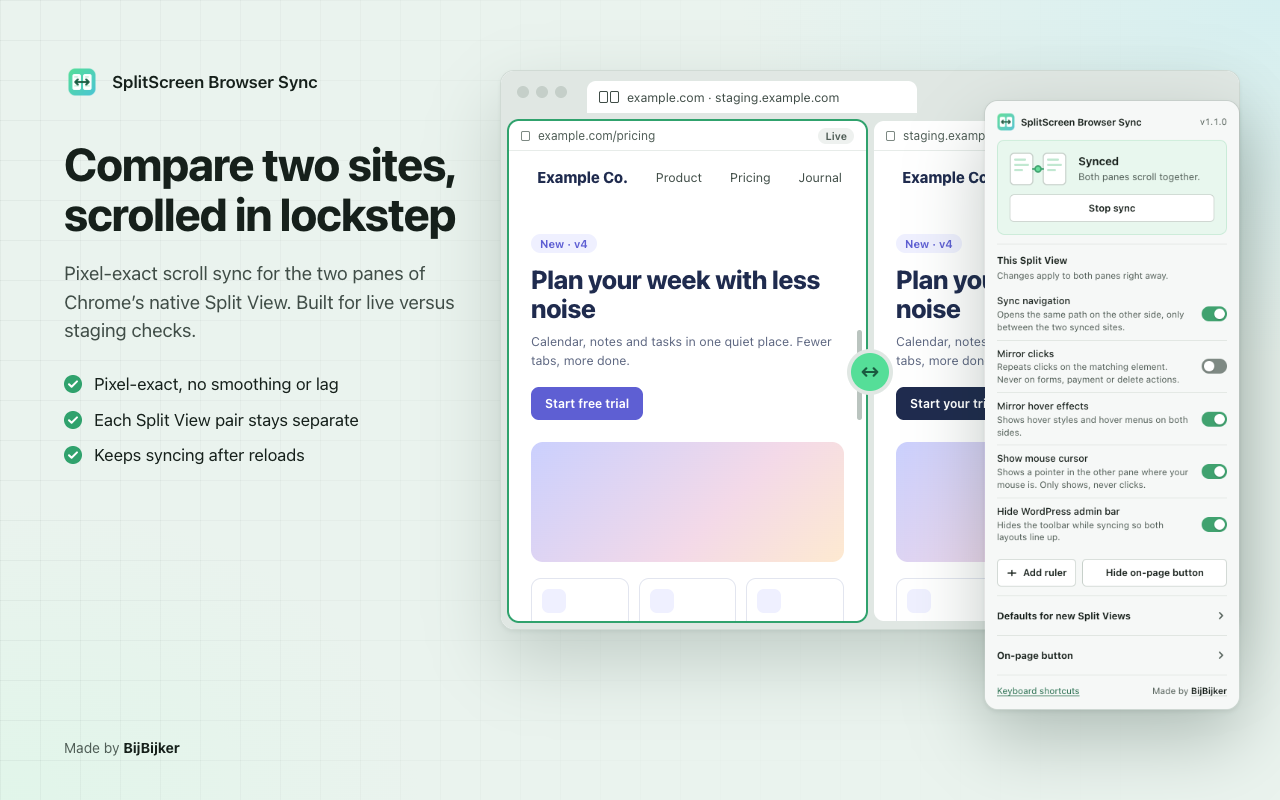
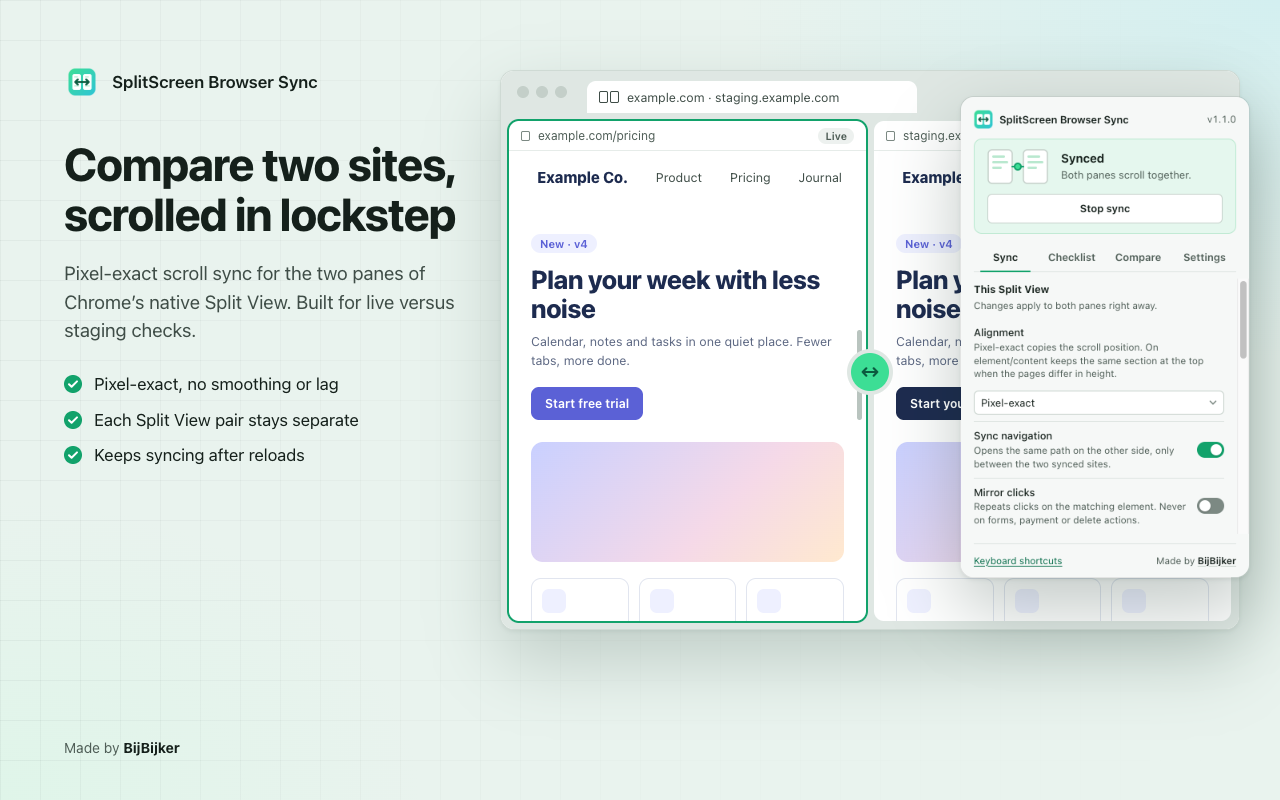
Docs and store assets for the new features
- README: new features, overlay/capture findings, programmatic Split View
  (tabs.createSplit, Chrome 155+), pane-size limits, popup tabs, defaults,
  shortcut, test checklist.
- store/PRIVACY.md (EN+NL): typing, element/scroll-area/zoom data, overlay
  images, CSS values, checklists and recent pairs, optional <all_urls>.
- store/LISTING.md: description bullets (EN+NL), single purpose, permission
  justification for the optional <all_urls> and the APIs that need none,
  data-usage note for Sync typing, screenshot upload order (max 5).
- Store images (1280x800, 24-bit PNG, EN+NL): screenshot 1 refreshed with
  the new popup; new 5 checklist, 6 overlay (difference mode), 7 CSS
  inspector, built from real captures.

diff --git a/store/LISTING.md b/store/LISTING.md
@@ -22,7 +22,14 @@ Everything needed to fill in the Chrome Web Store Developer Dashboard. Primary l
 SplitScreen Browser Sync keeps the two panes of Chrome's native Split View scrolled to exactly the same position. Put your live site next to its staging copy, a design next to its build, or two versions of a page side by side, and scroll once.
 
 What it does
-• Pixel-exact scroll sync in both directions, without smoothing or lag
+• Pixel-exact scroll sync in both directions, without smoothing or lag, or align on matching content when one page is taller
+• Page checklist for live vs staging: paste your paths, step through them with Previous/Next on both sites, mark Good/Wrong/N/A with notes, export to CSV
+• Overlay: lay one side over the other with an opacity slider, a difference blend that makes changed pixels light up, or a swipe divider
+• Inspect differences: point at an element and see which CSS (font, size, colour, spacing, layout) differs from the same element on the other side
+• Recent pairs: reopen two sites side by side as a Split View with one click; pin favourites
+• Hold Alt (Option) to scroll one side on its own; letting go sets the scroll offset
+• Also syncs scroll areas (modals, side panels) and the zoom level
+• Shows the width and height of each pane, with width presets (375 to 1440 px)
 • Every Split View pair stays separate, even with ten pairs open
 • Keeps syncing after a normal or hard reload of either side
 • Sync navigation (on by default): follow a link on one side and the other side opens the same path on its own domain (live ↔ staging)
@@ -30,6 +37,7 @@ What it does
 • Mirror hover effects (on by default): see CSS hover styles and hover menus on both sides
 • Show mouse cursor (on by default): a pointer in the other pane follows your mouse, with a ripple when you click. Display only, it never clicks anything
 • Mirror clicks (off by default): open menus, accordions and modals on both sides at once. Submit buttons, forms that post data and delete/pay/confirm/log-out actions are never clicked on the other side
+• Sync typing (off by default): fill in a form once for both sides. Never password, code, payment or file fields, and never submits
 • Scroll offset in pixels when one layout is taller than the other
 • Synced ruler lines to check alignment
 • Optionally hides the WordPress admin bar so both layouts line up
@@ -42,7 +50,7 @@ How to use it
 3. Open the extension and press Start sync, or use the floating button on the page.
 
 Privacy
-No account, no tracking, no analytics, no remote code, and nothing is sent to the developer. To sync, the extension passes the scroll position, the path of the page you navigate to, your mouse pointer position and (if enabled) the element you hover or click from one pane to the other, only between the two sites you started sync for. Password, PIN and payment fields are never read or mirrored.
+No account, no tracking, no analytics, no remote code, and nothing is sent to the developer. To sync, the extension passes the scroll position, the path of the page you navigate to, your mouse pointer position, the zoom level and (if enabled) the element you hover or click, what you type, an image of the other pane for the overlay and CSS values for the inspector from one pane to the other, only between the two sites you started sync for. Checklists and recent pairs stay on your device. Password, PIN and payment fields are never read or mirrored. The overlay asks once for permission to capture tabs; everything else works without it.
 
 Made by BijBijker – https://bijbijker.nl
 
@@ -51,7 +59,14 @@ Made by BijBijker – https://bijbijker.nl
 SplitScreen Browser Sync houdt de twee helften van de Split View in Chrome op precies dezelfde scrollpositie. Zet je live site naast de staging-versie, een ontwerp naast de bouw, of twee versies van een pagina naast elkaar, en scroll maar één keer.
 
 Wat het doet
-• Pixel-exacte scroll-sync in beide richtingen, zonder vertraging
+• Pixel-exacte scroll-sync in beide richtingen, zonder vertraging, of uitlijnen op overeenkomende inhoud als één pagina hoger is
+• Checklist voor live en staging: plak je paden, loop ze met Vorige/Volgende op beide sites langs, markeer Goed/Fout/N.v.t. met notities, exporteer naar CSV
+• Overlay: leg de ene kant over de andere met een schuifregelaar voor de dekking, een verschil-weergave waarin gewijzigde pixels oplichten, of een schuifbalk
+• Verschillen inspecteren: wijs een element aan en zie welke CSS (lettertype, grootte, kleur, ruimte, opmaak) afwijkt van hetzelfde element aan de andere kant
+• Recente paren: open twee sites met één klik weer naast elkaar als Split View; zet favorieten vast
+• Houd Alt (Option) ingedrukt om één kant los te scrollen; bij loslaten wordt dat de scroll-offset
+• Synchroniseert ook scrollgebieden (modals, zijpanelen) en het zoomniveau
+• Toont de breedte en hoogte van elke helft, met breedte-voorinstellingen (375 tot 1440 px)
 • Elk Split View-paar blijft apart, ook met tien paren open
 • Blijft syncen na normaal of hard herladen van een kant
 • Navigatie synchroniseren (standaard aan): volg een link aan de ene kant en de andere kant opent hetzelfde pad op het eigen domein (live ↔ staging)
@@ -59,6 +74,7 @@ Wat het doet
 • Hover-effecten spiegelen (standaard aan): CSS-hoverstijlen en hover-menu's aan beide kanten zien
 • Muiscursor tonen (standaard aan): een aanwijzer in de andere helft volgt je muis, met een rimpeling als je klikt. Alleen tonen, er wordt nooit iets mee aangeklikt
 • Klikken spiegelen (standaard uit): menu's, accordeons en modals aan beide kanten tegelijk openen. Verzendknoppen, formulieren die gegevens versturen en acties als verwijderen, betalen, bevestigen of uitloggen worden aan de andere kant nooit aangeklikt
+• Typen synchroniseren (standaard uit): vul een formulier één keer in voor beide kanten. Nooit wachtwoord-, code-, betaal- of bestandsvelden, en verstuurt nooit iets
 • Scroll-offset in pixels als de ene lay-out hoger is dan de andere
 • Gesynchroniseerde linialen om uitlijning te controleren
 • Verbergt desgewenst de WordPress-adminbalk zodat beide lay-outs gelijk lopen
@@ -71,15 +87,15 @@ Zo werkt het
 3. Open de extensie en klik op Sync starten, of gebruik de zwevende knop op de pagina.
 
 Privacy
-Geen account, geen tracking, geen analytics, geen externe code, en er gaat niets naar de ontwikkelaar. Om te syncen geeft de extensie de scrollpositie, het pad van de pagina waar je naartoe navigeert, de positie van je muisaanwijzer en (als dat aan staat) het element waar je overheen beweegt of op klikt door van de ene helft naar de andere, alleen tussen de twee sites waarvoor je de sync startte. Wachtwoord-, pincode- en betaalvelden worden nooit gelezen of gespiegeld.
+Geen account, geen tracking, geen analytics, geen externe code, en er gaat niets naar de ontwikkelaar. Om te syncen geeft de extensie de scrollpositie, het pad van de pagina waar je naartoe navigeert, de positie van je muisaanwijzer, het zoomniveau en (als dat aan staat) het element waar je overheen beweegt of op klikt, wat je typt, een afbeelding van de andere helft voor de overlay en CSS-waarden voor de inspectie door van de ene helft naar de andere, alleen tussen de twee sites waarvoor je de sync startte. Checklists en recente paren blijven op je apparaat. Wachtwoord-, pincode- en betaalvelden worden nooit gelezen of gespiegeld. De overlay vraagt één keer toestemming om tabbladen vast te leggen; al het andere werkt zonder.
 
 Gemaakt door BijBijker – https://bijbijker.nl
 
 ## Single purpose (dashboard field)
 
-EN: Keep the two tabs of a Chrome Split View in sync (scroll position, navigation, hover and mouse cursor, and optionally clicks, only between the two sites the user started sync for) so two versions of a website can be compared side by side.
+EN: Compare two versions of a website side by side in a Chrome Split View: keep both tabs in sync (scroll position, navigation, zoom, hover and mouse cursor, and optionally clicks and typing, only between the two sites the user started sync for) and help spot the differences (page checklist, overlay, CSS difference inspector).
 
-NL: De twee tabbladen van een Chrome Split View gelijk houden (scrollpositie, navigatie, hover en muiscursor, en optioneel klikken, alleen tussen de twee sites waarvoor de gebruiker de sync startte) zodat twee versies van een website naast elkaar vergeleken kunnen worden.
+NL: Twee versies van een website naast elkaar vergelijken in een Chrome Split View: beide tabbladen gelijk houden (scrollpositie, navigatie, zoom, hover en muiscursor, en optioneel klikken en typen, alleen tussen de twee sites waarvoor de gebruiker de sync startte) en helpen verschillen te vinden (checklist, overlay, CSS-verschillen).
 
 ## Permission justifications (dashboard fields)
 
@@ -88,7 +104,9 @@ NL: De twee tabbladen van een Chrome Split View gelijk houden (scrollpositie, na
 | Host permissions `http://*/*`, `https://*/*` | The user can open any website in either pane of a Split View. The content script must run on both pages to read and apply the scroll position and, when enabled, mirror clicks, hover and navigation. It does nothing on tabs that are not part of a Split View pair. `activeTab` is not enough: it only grants access to one tab after a click, not to the second pane, and it is lost on reload or navigation, which would break sync. |
 | `scripting` | Injects the bundled `content.js`/`content.css` into Split View tabs that were already open before the extension was installed, updated or restarted, so the user does not have to reload them. Only files packaged with the extension are injected. |
 | `storage` | Saves the user's settings (`chrome.storage.local`) and the per-pair sync state such as offset and ruler lines (`chrome.storage.session`, cleared when the browser closes). |
+| Optional host permission `<all_urls>` | Requested at runtime, only when the user turns on the Overlay ("Allow capturing the panes"). `chrome.tabs.captureVisibleTab` refuses to run with only `http://*/*`/`https://*/*` ("Either the '<all_urls>' or 'activeTab' permission is required"); `activeTab` is not enough because the overlay captures the *other* pane of the Split View, not the one the user clicked in, and keeps refreshing the image after scrolling. The image is only drawn over the other pane of the same pair and never stored or sent anywhere. Content scripts still only match http/https. Without this permission everything except the overlay works. |
 | Remote code | None. All JavaScript is in the package; no `eval`, no `new Function`, no remote scripts. |
+| APIs without extra permission | `chrome.tabs.setZoom`/`onZoomChange` (sync zoom), `chrome.tabs.createSplit` (reopen a remembered pair as a Split View, Chrome 155+), `chrome.windows.update` (width presets), `chrome.permissions` (the optional permission above). |
 
 Removed in 1.1.0 for least privilege: `tabs` (host permissions already give access to the URL of http/https tabs) and `web_accessible_resources` (the on-page button icon is now drawn inline, so no extension file is exposed to websites).
 
@@ -96,6 +114,7 @@ Removed in 1.1.0 for least privilege: `tabs` (host permissions already give acce
 
 - Does the extension collect user data? **No** — nothing is sent to the developer or any server. Tick none of the data categories. (Decision point before submitting: the path/query of navigations and hover/click targets are handed from one user-chosen site to the other as the core function. If a reviewer treats that as "transfer", tick *Web history* and *User activity* and keep the certifications below; the privacy policy already describes it.)
 - Certify: does not sell or transfer user data to third parties; does not use or transfer data for purposes unrelated to the single purpose; does not use or transfer data to determine creditworthiness or for lending.
+- With "Sync typing" (off by default) the text a user types is passed from one of their two chosen sites to the other. It never reaches the developer; if a reviewer considers this a transfer, tick *Personally identifiable information*/*User activity* accordingly. Checklists (paths and notes) and the recent-pairs list (site + path) are stored only in `chrome.storage.local`.
 - Note for reviewers: to perform the sync, the scroll position, the path/query/hash of a navigation, the mouse pointer position (for the virtual cursor, coordinates only) and (if enabled) a description of the hovered or clicked element are passed from one pane to the other. This only happens between the two origins the user pinned by pressing Start sync; if a pane opens another site, the pair pauses. Click mirroring is off by default and never activates submit buttons, POST forms or delete/pay/confirm/log-out actions. Nothing is sent to the developer and nothing is stored beyond the browser session.
 
 ## Assets
@@ -105,22 +124,25 @@ All images are 24-bit PNG without alpha, in `store/images/`.
 | Asset | English | Dutch |
 |---|---|---|
 | Store icon 128×128 (96 px artwork + padding) | `icons/icon128.png` | same |
-| Screenshot 1 – scroll sync | `en-screenshot-1-sync.png` | `nl-screenshot-1-sync.png` |
-| Screenshot 2 – clicks, hover and mouse cursor | `en-screenshot-2-clicks-hover.png` | `nl-screenshot-2-clicks-hover.png` |
-| Screenshot 3 – on-page controls | `en-screenshot-3-on-page-controls.png` | `nl-screenshot-3-on-page-controls.png` |
-| Screenshot 4 – setup | `en-screenshot-4-setup.png` | `nl-screenshot-4-setup.png` |
+| **Upload 1** – scroll sync (new popup with tabs) | `en-screenshot-1-sync.png` | `nl-screenshot-1-sync.png` |
+| **Upload 2** – page checklist | `en-screenshot-5-checklist.png` | `nl-screenshot-5-checklist.png` |
+| **Upload 3** – overlay, difference mode | `en-screenshot-6-overlay.png` | `nl-screenshot-6-overlay.png` |
+| **Upload 4** – CSS difference inspector | `en-screenshot-7-css-inspector.png` | `nl-screenshot-7-css-inspector.png` |
+| **Upload 5** – clicks, hover and mouse cursor | `en-screenshot-2-clicks-hover.png` | `nl-screenshot-2-clicks-hover.png` |
+| Not uploaded (store max 5) – on-page controls (older panel) | `en-screenshot-3-on-page-controls.png` | `nl-screenshot-3-on-page-controls.png` |
+| Not uploaded (store max 5) – setup | `en-screenshot-4-setup.png` | `nl-screenshot-4-setup.png` |
 | Small promo tile 440×280 | `en-promo-tile-440x280.png` | `nl-promo-tile-440x280.png` |
 | Marquee 1400×560 | `en-marquee-1400x560.png` | `nl-marquee-1400x560.png` |
 
-The popup and on-page panel in the screenshots are captures of the real extension UI. The websites shown are fictional (`example.com`).
+The popup and on-page panel in the screenshots are captures of the real extension UI; in screenshots 5–7 the panes are real captures of a fictional test site (overlay in difference mode, inspector panel), shown under `example.com` addresses. Upload them in the order above (the store allows 5 per language).
 
 ## Publishing checklist
 
 - [ ] Run `./package.sh` and upload `dist/splitscreen-browser-sync-1.1.0.zip`
 - [ ] Store listing: paste the EN detailed description; add Dutch under "Add localized listing" and paste the NL text
-- [ ] Upload the EN screenshots, promo tile and marquee; upload the NL set to the Dutch listing
+- [ ] Upload the 5 EN screenshots marked *Upload 1–5*, promo tile and marquee; the same 5 NL screenshots to the Dutch listing
 - [ ] Category: Developer Tools; language: English
-- [ ] Privacy tab: single purpose text, the three permission justifications, "no remote code", data usage: nothing collected, tick the three certifications
+- [ ] Privacy tab: single purpose text, the permission justifications (including the optional `<all_urls>`), "no remote code", data usage: nothing collected, tick the three certifications
 - [ ] Privacy policy URL: publish `store/PRIVACY.md` and paste the public link
 - [ ] Homepage and support URL: https://bijbijker.nl
 - [ ] Distribution: public, all regions

diff --git a/README.md b/README.md
@@ -16,7 +16,7 @@ From the Chrome Web Store (once published), or locally:
 
 ## Privacy
 
-Nothing is sent to the developer or any server: no analytics and no remote code; settings and per-pair state stay in `chrome.storage.local` / `chrome.storage.session`. Between the two panes of a pair the extension does pass data from one site to the other: the scroll position, the path/query/hash of a navigation and (when enabled) a description of the clicked or hovered element. That only happens between the two sites (origins) the pair was started on. Password, one-time-code, PIN and payment card fields are never read and clicks/focus on them are never mirrored. Full policy: [store/PRIVACY.md](store/PRIVACY.md).
+Nothing is sent to the developer or any server: no analytics and no remote code; settings, checklists, the pair history and per-pair state stay in `chrome.storage.local` / `chrome.storage.session`. Between the two panes of a pair the extension does pass data from one site to the other: the scroll position (and a description of the top element in "on element" alignment), scroll positions of scroll areas, the zoom level, the path/query/hash of a navigation, the mouse position and (when enabled) a description of the clicked or hovered element, what you type (Sync typing, **off** by default), an image of the other pane (Overlay, only when you turn it on) and CSS values of the inspected element (Inspect differences, only while on). That only happens between the two sites (origins) the pair was started on. Password, one-time-code, PIN and payment card fields are never read and never mirrored. Full policy: [store/PRIVACY.md](store/PRIVACY.md).
 
 ## Packaging for the Chrome Web Store
 
@@ -36,7 +36,7 @@ Made by BijBijker – https://bijbijker.nl
 - Treats every valid Split View group as its own isolated pair.
 - A valid group has exactly two HTTP/HTTPS tabs with the same `splitViewId`.
 - Synchronizes `scrollX` and `scrollY` in pixels.
-- Uses no percentage-based scroll mode.
+- Pixel-exact by default (no percentages); the optional *On element/content* alignment falls back to the scroll percentage only when no matching element is found.
 - Syncs bidirectionally.
 - Keeps multiple Split View pairs separated, including larger test sets such as 10 pairs.
 - Keeps sync active after normal reloads and hard reloads.
@@ -47,6 +47,74 @@ Made by BijBijker – https://bijbijker.nl
 - Optionally mirrors interactive clicks between panes, including closing overlays by clicking outside them (default off; never submits forms or triggers delete/pay/log-out style actions).
 - Mirrors hover effects (CSS `:hover` styling and JS-driven hover menus) between panes (default on).
 - Shows a virtual mouse cursor in the other pane where your mouse is, with a short ripple when you click (default on; display only, never clicks anything).
+- Alignment: pixel-exact (default) or on element/content.
+- Hold Alt (Option) to scroll one side on its own; the difference becomes the offset.
+- Syncs scrolling inside scroll areas (modals, side panels) and the zoom level (default on).
+- Optionally mirrors typing and form choices (default **off**).
+- Page checklist for live vs staging, with export.
+- Remembers pairs and reopens them as a Split View with one click.
+- Overlay mode: one side on top of the other with opacity, difference blend and a swipe divider.
+- Inspect CSS differences of the element under the cursor.
+- Shows the size of each pane and resizes the window to width presets.
+
+## New in 1.1.0 (second round)
+
+Version stays 1.1.0 (not yet published). The popup now has four tabs: **Sync · Checklist · Compare · Settings**; the status and Start/Stop button stay on top and the popup never grows past Chrome's 600 px limit (the tab content scrolls).
+
+### Page checklist (Checklist tab)
+
+- Paste many paths or URLs (one per line; for a URL only the path, query and `#` part are kept; other schemes are refused) or **Add current page**.
+- **Previous / Next** (and clicking a page in **All pages**) opens that path in both panes, each on its own pinned origin. Start sync once first so both sites are known; nothing navigates outside the two pinned origins. Both panes get a navigation lock, so navigation sync does not mirror the loads again.
+- Per page **Good / Wrong / N/A** and a note; progress (`3 of 12 checked · 1 wrong`); remove a page; **Clear list** (click twice).
+- **Export CSV** (UTF-8 with BOM, columns `#, Path, Result, Note, Left URL, Right URL`; cells starting with `= + - @` are prefixed with `'` so spreadsheets do not run them) and **Copy as text**.
+- Stored per pair of sites (order does not matter) in `chrome.storage.local`; max 500 pages per list, 50 lists.
+- The on-page panel shows a compact Checklist section (position, path, Previous/Next, result buttons) when the pair has a list.
+
+### Overlay (Compare tab)
+
+Lays an image of the other pane over this pane: opacity slider, **Difference blend** (identical pixels turn black) and a **Swipe divider** (drag the handle on the page, or use the arrow keys).
+
+How it works and what we found while building it (Chrome 157, real Split View):
+
+- `chrome.tabs.captureVisibleTab` captures only the **active** pane of the window (one pane's viewport, not the whole split). The extension therefore activates the other pane for a moment, captures it and re-activates the pane you were in (about 30 ms; keyboard focus returns). Its own UI in the captured pane (button, cursor, rulers) is hidden during the capture.
+- `captureVisibleTab` does **not** accept the `http://*/*` / `https://*/*` host permissions: it needs `<all_urls>` or `activeTab` ("Either the '<all_urls>' or 'activeTab' permission is required"). `activeTab` only covers the pane you clicked in, so `<all_urls>` is an **optional** host permission, requested the first time you press **Allow capturing the panes**. Nothing changes at install time.
+- Chrome allows at most 2 captures per second, so the image is refreshed 450 ms after scrolling, a scroll-area scroll, zoom, resize or a page load settles (throttled to one per 600 ms). In between, the image follows your scrolling.
+- The iframe alternative (load the other site in an iframe and strip `X-Frame-Options` / CSP `frame-ancestors` with `declarativeNetRequest`) was not needed; it would have cost an extra permission and a heavier store review.
+- The image only goes to the other pane of the same pair while both panes are on their pinned origins, is drawn in a closed shadow root with `pointer-events: none` (the page stays usable) and is never stored. Overlay turns off when sync stops or pauses.
+
+### Inspect CSS differences (Compare tab, on-page panel, shortcut)
+
+Turn on **Inspect differences** and point at an element: it is outlined, the matching element on the other side gets a dashed outline, and a small panel lists the checked properties that differ (font family/size/weight/style, line height, letter spacing, text align/transform/decoration, colour, background colour, margin, padding, border width/radius, display, position, box sizing, opacity, box shadow, gap, flex direction, justify/align, z-index) and both box sizes. Click freezes the selection (the click does not reach the page while inspecting), **Esc** stops. Only style values and box sizes of the two elements are exchanged, only while the mode is on.
+
+### Pane sizes and width presets (Compare tab)
+
+Shows width × height of both panes (also next to the Left/Right reload columns in the on-page panel). Presets **375 / 768 / 1024 / 1280 / 1440** for the chosen pane. Chrome has no API to move the Split View divider (`chrome.tabs` gained `createSplit`/`unsplit` in Chrome 155, nothing sets the ratio), so the window is resized with `chrome.windows.update` until the pane has that width; the other pane changes along. A maximized/fullscreen window is made normal first; if the screen is too narrow the popup says how wide the pane got.
+
+### History of pairs (Sync tab)
+
+Every pair you start sync for is remembered (origin and path of both panes; query string and `#` part are dropped): recent pairs (20) and pinned favourites (30), rename, remove, **Clear history** (keeps favourites) and an option **Remember pairs** in Settings. Click a pair to reopen it:
+
+- Active tab already in a Split View → both URLs are loaded into that pair.
+- Otherwise two tabs open next to each other and become a native Split View with `chrome.tabs.createSplit` (Chrome 155+; no extra permission).
+- Chrome 140–154 has no API to create a Split View: the two tabs open next to each other with a short instruction to turn them into one.
+- Sync starts (and pins the new origins) as soon as both pages have loaded.
+
+### Hold Alt (Option) = decouple
+
+While Alt (Option on macOS) is held, scrolling one pane is not mirrored. Release Alt and the new distance between the panes becomes the pair's scroll offset (toast: *Offset +120 px*). Alt is read from trusted key, wheel and pointer events (so it also works in the pane under the mouse that has no keyboard focus); nothing is blocked, so Alt shortcuts keep working.
+
+### Alignment: pixel-exact or on element/content
+
+Per pair and as a default. **On element/content** finds the top-most visible landmark element (id, heading, section, image, paragraph, ...) in the scrolling pane, matches it on the other side with the same descriptor matching as clicks/hover and puts it at the same spot (plus the offset). No match: falls back to the scroll percentage. Useful when a banner or extra content makes one page taller.
+
+### Sync scroll areas and zoom
+
+- **Sync scroll areas** (default on): scrolling inside an overflow area, modal or side panel scrolls the matching scrollable element on the other side (descriptor + class hint, closest to the same spot).
+- **Sync zoom** (default on): zooming one pane (Ctrl/⌘ + / −) gives the other pane the same zoom factor via `chrome.tabs.setZoom` (no extra permission); the factor we set is remembered so the change does not bounce back. Note that Chrome's zoom is per site by default, so other tabs of that site follow too.
+
+### Sync typing (default off)
+
+Mirrors what you type into inputs, textareas and contenteditable areas, and checkbox, radio and select changes, into the matching field on the other side. Never password, one-time-code, payment card (`autocomplete="cc-*"`), hidden, file or button inputs, nor fields whose name/label looks sensitive; only trusted events; values are set directly with `input`/`change` events, so nothing is clicked, no key is pressed and forms are never submitted. **The other site receives what you type**, which is why it is off by default.
 
 ## Changes in 1.1.0
 
@@ -172,9 +240,12 @@ splitview-browser-sync/
 
 ## Toolbar popup
 
-Click the extension icon in Chrome's toolbar to open a small settings popup.
+Click the extension icon in Chrome's toolbar to open the popup. The status of the current pair and the **Start sync / Stop sync** button are always on top; below are four tabs:
 
-The popup shows the status of the current pair, a **Start sync / Stop sync** button, the options for the current pair (**This Split View**), and two collapsible sections described below.
+- **Sync**: options for the current pair (**This Split View**), Add ruler, show/hide the on-page button, and **Recent pairs**.
+- **Checklist**: the page checklist for this pair of sites.
+- **Compare**: pane sizes and width presets, **Inspect differences**, **Overlay**.
+- **Settings**: defaults for new Split Views, **Remember pairs**, on-page button.
 
 ### Always show button on split screen (On-page button → Show in every Split View)
 
@@ -200,6 +271,10 @@ split screen pairing begins with your preferred configuration:
 - Mirror clicks (default off)
 - Mirror hover effects (default on)
 - Show mouse cursor (default on)
+- Alignment (default pixel-exact)
+- Sync scroll areas (default on)
+- Sync zoom (default on)
+- Sync typing (default off)
 
 These defaults are applied when a split screen pairing is first detected. They
 do not retroactively change a pairing that already exists in the current
@@ -219,11 +294,11 @@ The floating UI does not appear on normal pages outside Split View.
 
 ## Scroll sync
 
-Scroll sync is pixel-based and direct:
+Scroll sync is pixel-based and direct (in the default *Pixel-exact* alignment):
 
 - no smooth scroll;
 - no delayed easing;
-- no percentage mode;
+- no percentage mode (only *On element/content* alignment falls back to a percentage when no element matches);
 - exact `scrollLeft` and `scrollTop` values are used;
 - site CSS such as `html { scroll-behavior: smooth; }` is temporarily overridden during remote scroll.
 
@@ -394,6 +469,7 @@ Default: on for new pairs. Toggle: **Show mouse cursor** (per Split View group, 
 | `sync-all-split-views` | `Alt+Shift+A` | Start sync for all valid Split Views in the current window |
 | `stop-current-split-view` | `Alt+Shift+X` | Stop sync for the current Split View |
 | `hard-reload-active-pane` | `Alt+Shift+R` | Hard reload the active pane |
+| `toggle-inspect` | none (Chrome allows 4 suggested keys) | Inspect CSS differences on or off |
 
 You can change shortcuts at:
 
@@ -480,6 +556,19 @@ chrome://extensions/shortcuts
 - [ ] The cursor hides after about 1.5 s without movement, when the mouse leaves the pane or window, and when sync stops or pauses.
 - [ ] A click shows a short ripple on the other side, also with Mirror clicks off.
 - [ ] Turning the option off removes the cursor immediately.
+
+### Second round (checklist, overlay, inspector, ...)
+
+- [ ] Popup: four tabs, arrow keys switch tabs, height never above 600 px (synced state, Checklist with a long list), NL and EN, light and dark.
+- [ ] Hold Alt/Option and scroll one pane: the other stays; release: toast *Offset ... px*, popup shows the offset, both panes scroll together again. Alt+arrow/Alt shortcuts of the browser still work.
+- [ ] Alignment *On element/content*: open live vs a staging page with an extra banner; headings stay aligned while scrolling; with no match it follows the percentage.
+- [ ] Scroll a side panel/modal list on one side: the same list scrolls on the other side. Zoom one side with Ctrl/⌘ +: the other follows, no flicker loop.
+- [ ] Sync typing (turn on): text, textarea, contenteditable, checkbox, radio, select follow; password, card number, one-time code and file fields do not; nothing is submitted.
+- [ ] Checklist: paste paths and URLs, Previous/Next opens both panes on their own site and sync stays on; statuses, note, progress, CSV opens in Excel/Numbers with correct columns, Copy as text.
+- [ ] Recent pairs: Start sync adds the pair; rename, pin, remove; reopen inside the current Split View and from a normal tab (new Split View, sync starts).
+- [ ] Overlay: *Allow capturing the panes* shows Chrome's permission prompt; overlay over left/right, opacity, difference, swipe (drag + arrow keys); image refreshes after scrolling; no visible flicker when the other pane is captured; turning sync off removes it.
+- [ ] Inspect differences: outlines on both sides, panel lists differing CSS, click freezes, Esc stops, links are not followed while inspecting.
+- [ ] Pane sizes shown; presets resize the window so the chosen pane has that width (or report the screen is too narrow).
 
 ### Multiple Split View pairs
 

diff --git a/store/PRIVACY.md b/store/PRIVACY.md
@@ -8,7 +8,7 @@ Last updated: 12 November 2026 · Version 1.1.0
 
 ## English
 
-SplitScreen Browser Sync is a Chrome extension made by BijBijker (https://bijbijker.nl). It keeps the two tabs (panes) of a Chrome Split View scrolled to the same position and can mirror navigation, hover effects, your mouse cursor and, if you turn it on, clicks between them.
+SplitScreen Browser Sync is a Chrome extension made by BijBijker (https://bijbijker.nl). It keeps the two tabs (panes) of a Chrome Split View scrolled to the same position and can mirror navigation, hover effects, your mouse cursor and, if you turn them on, clicks and typing between them. It can also lay an image of one pane over the other, compare the CSS of matching elements, keep a page checklist and remember pairs of sites.
 
 ### Summary
 
@@ -27,8 +27,14 @@ The two sites in a synced pair can learn the following about your activity on th
 | A description of the element you hover: tag name, id, `data-*` attributes, `aria-label`/`name`, link path, a short piece of visible text, and the pointer position | While sync is on and "Mirror hover effects" is on (default on) | The matching element gets hover events, so the other page's scripts can notice what you point at |
 | The position of your mouse pointer in the pane (viewport coordinates and the pane size, no element or page content) and the moment you click | While sync is on and "Show mouse cursor" is on (default on) | The extension draws a cursor arrow (and a short ripple on a click) in the other pane. It is drawn in a sealed layer the page cannot read; it never clicks anything |
 | The same kind of description of the element you click or focus | While sync is on and "Mirror clicks" is on (default **off**) | The matching element is clicked or focused, so the other page's scripts can notice it |
+| A description of the top visible element (same kind as for hover) and how far you scrolled into it | While sync is on and "Alignment" is set to "On element/content" (default pixel-exact) | It scrolls the matching element to the same spot |
+| A description of a scroll area you scroll (modal, side panel, list) and its scroll position | While sync is on and "Sync scroll areas" is on (default on) | The matching scroll area is scrolled |
+| The zoom level of the pane | While sync is on and "Sync zoom" is on (default on) | The other pane gets the same zoom (Chrome stores zoom per site, so other tabs of that site follow) |
+| **What you type** into a text field, text area or editable area, and checkbox, radio and select choices, with a description of the field | While sync is on and "Sync typing" is on (default **off**) | The matching field gets the same value, so **the other site receives that text** and its scripts can read it. Never password, one-time-code, PIN or payment card fields, hidden or file fields, or fields whose name or label looks sensitive. Nothing is submitted |
+| An image (screenshot) of the visible part of one pane | Only while you have turned on "Overlay" | The image is drawn on top of the other pane in a sealed layer the page cannot read |
+| Computed CSS values (such as font, size, colours, spacing) and the box size of the element under your mouse, with a description of that element | Only while "Inspect differences" is on | The matching element is outlined and its own CSS values are sent back to compare |
 
-The extension never reads what you type into form fields, never reads the contents of password, one-time-code, PIN or payment card fields, and never mirrors clicks or focus on them. It never replays a click on a submit button, inside a form that posts data, or on delete/pay/confirm/buy/order/log-out actions.
+The extension never reads what you type into form fields unless you turn on "Sync typing", never reads the contents of password, one-time-code, PIN or payment card fields, and never mirrors clicks or focus on them. It never replays a click on a submit button, inside a form that posts data, or on delete/pay/confirm/buy/order/log-out actions.
 
 ### What the extension stores, and where
 
@@ -36,15 +42,19 @@ The extension never reads what you type into form fields, never reads the conten
 |---|---|---|---|
 | Your settings (for example "Mirror clicks" on/off, "Show the button in every Split View") | To remember your preferences | `chrome.storage.local` on your device | Until you change them or remove the extension |
 | Tab IDs, the origin of each pane (current and the pinned one from Start sync), scroll position, offset and ruler lines of each Split View pair | To keep a pair in sync, also after a reload | `chrome.storage.session` (in memory) | Cleared when the browser closes |
-| The address a pane is being sent to by "Sync navigation" | To prevent navigation loops | `chrome.storage.session` | About 1.5 seconds |
+| The address a pane is being sent to by "Sync navigation" or the checklist | To prevent navigation loops | `chrome.storage.session` | About 1.5–3 seconds |
+| Page checklists: the paths you add, the result (Good/Wrong/N/A) and your notes, per pair of sites | So you can continue checking later | `chrome.storage.local` on your device | Until you clear the list or remove the extension (max 50 lists) |
+| Recent pairs: the site and path (no query string or `#` part) of both panes of pairs you started sync for, an optional name you give them | To reopen a pair with one click | `chrome.storage.local` on your device | Until you remove them, clear the history or turn off "Remember pairs" (max 20 recent and 30 favourites) |
+| Overlay settings and the size of each pane | To show the overlay and the pane sizes | `chrome.storage.session` | Cleared when the browser closes |
 
-Element descriptions for clicks and hover, and the mouse pointer position, are passed directly between your two tabs inside the extension and are not stored.
+Element descriptions, typed text, the mouse pointer position, overlay images and CSS values are passed directly between your two tabs inside the extension and are not stored. CSV exports of a checklist are only created when you click "Export CSV" and are saved where you choose.
 
 ### Permissions
 
 - **Access to http and https sites**: needed because the panes of a Split View can show any website you choose. The extension only acts when a tab is part of a Split View pair.
 - **scripting**: to start the sync script in tabs that were already open before the extension was installed or updated.
-- **storage**: to save your settings and the state of each Split View pair, locally.
+- **storage**: to save your settings, checklists, recent pairs and the state of each Split View pair, locally.
+- **Access to all sites (optional, `<all_urls>`)**: only requested when you first turn on the overlay. Chrome only allows an extension to capture an image of a tab (`chrome.tabs.captureVisibleTab`) with this permission. You can withdraw it at any time in `chrome://extensions`; the overlay then switches off.
 
 ### Third parties
 
@@ -58,7 +68,7 @@ Questions about this policy: via https://bijbijker.nl.
 
 ## Nederlands
 
-SplitScreen Browser Sync is een Chrome-extensie van BijBijker (https://bijbijker.nl). De extensie houdt de twee tabbladen (helften) van een Chrome Split View op dezelfde scrollpositie en kan navigatie, hover-effecten, je muiscursor en, als je dat aanzet, klikken tussen beide spiegelen.
+SplitScreen Browser Sync is een Chrome-extensie van BijBijker (https://bijbijker.nl). De extensie houdt de twee tabbladen (helften) van een Chrome Split View op dezelfde scrollpositie en kan navigatie, hover-effecten, je muiscursor en, als je dat aanzet, klikken en typen tussen beide spiegelen. Ze kan ook een afbeelding van de ene helft over de andere leggen, de CSS van overeenkomende elementen vergelijken, een checklist van pagina's bijhouden en paren van sites onthouden.
 
 ### Samenvatting
 
@@ -77,8 +87,14 @@ De twee sites in een gesynchroniseerd paar kunnen het volgende te weten komen ov
 | Een beschrijving van het element waar je overheen beweegt: tagnaam, id, `data-*`-attributen, `aria-label`/`name`, linkpad, een kort stukje zichtbare tekst en de positie van de muis | Zolang de sync aan staat en "Hover-effecten spiegelen" aan staat (standaard aan) | Het overeenkomende element krijgt hover-events, dus scripts op de andere pagina kunnen merken waar je naar wijst |
 | De positie van je muisaanwijzer in de helft (viewport-coördinaten en de grootte van de helft, geen element of pagina-inhoud) en het moment waarop je klikt | Zolang de sync aan staat en "Muiscursor tonen" aan staat (standaard aan) | De extensie tekent een cursorpijl (en bij een klik een korte rimpeling) in de andere helft. Die staat in een afgeschermde laag die de pagina niet kan uitlezen; er wordt nooit iets mee aangeklikt |
 | Dezelfde soort beschrijving van het element waarop je klikt of dat focus krijgt | Zolang de sync aan staat en "Klikken spiegelen" aan staat (standaard **uit**) | Op het overeenkomende element wordt geklikt of het krijgt focus, dus scripts op de andere pagina kunnen dat merken |
+| Een beschrijving van het bovenste zichtbare element (zelfde soort als bij hover) en hoe ver je erin gescrold bent | Zolang de sync aan staat en "Uitlijning" op "Op element/inhoud" staat (standaard pixel-exact) | Ze scrolt het overeenkomende element naar dezelfde plek |
+| Een beschrijving van een scrollgebied waarin je scrolt (modal, zijpaneel, lijst) en de scrollpositie | Zolang de sync aan staat en "Scrollgebieden synchroniseren" aan staat (standaard aan) | Het overeenkomende scrollgebied wordt gescrold |
+| Het zoomniveau van de helft | Zolang de sync aan staat en "Zoom synchroniseren" aan staat (standaard aan) | De andere helft krijgt hetzelfde zoomniveau (Chrome bewaart zoom per site, dus andere tabbladen van die site volgen mee) |
+| **Wat je typt** in een tekstveld, tekstvak of bewerkbaar gebied, en keuzes in selectievakjes, keuzerondjes en keuzelijsten, met een beschrijving van het veld | Zolang de sync aan staat en "Typen synchroniseren" aan staat (standaard **uit**) | Het overeenkomende veld krijgt dezelfde waarde, dus **de andere site ontvangt die tekst** en scripts daar kunnen hem lezen. Nooit wachtwoord-, eenmalige-code-, pincode- of betaalkaartvelden, verborgen velden of bestandsvelden, of velden waarvan de naam of het label gevoelig lijkt. Er wordt niets verstuurd |
+| Een afbeelding (schermafbeelding) van het zichtbare deel van een helft | Alleen zolang je "Overlay" hebt aangezet | De afbeelding wordt over de andere helft getekend, in een afgeschermde laag die de pagina niet kan uitlezen |
+| Berekende CSS-waarden (zoals lettertype, grootte, kleuren, ruimte) en de afmeting van het element onder je muis, met een beschrijving van dat element | Alleen zolang "Verschillen inspecteren" aan staat | Het overeenkomende element wordt omlijnd en de eigen CSS-waarden worden teruggestuurd om te vergelijken |
 
-De extensie leest nooit wat je in formuliervelden typt, leest nooit de inhoud van wachtwoord-, eenmalige-code-, pincode- of betaalkaartvelden en spiegelt daar nooit klikken of focus op. Een klik op een verzendknop, in een formulier dat gegevens verstuurt, of op acties als verwijderen, betalen, bevestigen, kopen, bestellen of uitloggen wordt nooit herhaald.
+De extensie leest nooit wat je in formuliervelden typt, tenzij je "Typen synchroniseren" aanzet, leest nooit de inhoud van wachtwoord-, eenmalige-code-, pincode- of betaalkaartvelden en spiegelt daar nooit klikken of focus op. Een klik op een verzendknop, in een formulier dat gegevens verstuurt, of op acties als verwijderen, betalen, bevestigen, kopen, bestellen of uitloggen wordt nooit herhaald.
 
 ### Wat de extensie opslaat, en waar
 
@@ -86,15 +102,19 @@ De extensie leest nooit wat je in formuliervelden typt, leest nooit de inhoud va
 |---|---|---|---|
 | Je instellingen (bijvoorbeeld "Klikken spiegelen" aan/uit, "Tonen in elke Split View") | Om je voorkeuren te onthouden | `chrome.storage.local` op je apparaat | Tot je ze wijzigt of de extensie verwijdert |
 | Tabblad-ID's, de origin van elke helft (de huidige en de bij Sync starten vastgelegde), scrollpositie, offset en linialen van elk Split View-paar | Om een paar gesynchroniseerd te houden, ook na herladen | `chrome.storage.session` (in het geheugen) | Gewist zodra de browser sluit |
-| Het adres waar "Navigatie synchroniseren" een helft naartoe stuurt | Om navigatielussen te voorkomen | `chrome.storage.session` | Ongeveer 1,5 seconde |
+| Het adres waar "Navigatie synchroniseren" of de checklist een helft naartoe stuurt | Om navigatielussen te voorkomen | `chrome.storage.session` | Ongeveer 1,5–3 seconden |
+| Checklists: de paden die je toevoegt, het resultaat (Goed/Fout/N.v.t.) en je notities, per paar sites | Zodat je later verder kunt controleren | `chrome.storage.local` op je apparaat | Tot je de lijst wist of de extensie verwijdert (max. 50 lijsten) |
+| Recente paren: de site en het pad (zonder querystring of `#`-deel) van beide helften van paren waarvoor je de sync startte, en een eventuele naam die je ze geeft | Om een paar met één klik opnieuw te openen | `chrome.storage.local` op je apparaat | Tot je ze verwijdert, de geschiedenis wist of "Paren onthouden" uitzet (max. 20 recente en 30 favorieten) |
+| Overlay-instellingen en de afmeting van elke helft | Om de overlay en de afmetingen te tonen | `chrome.storage.session` | Gewist zodra de browser sluit |
 
-Elementbeschrijvingen voor klikken en hover, en de positie van de muisaanwijzer, worden binnen de extensie rechtstreeks tussen je twee tabbladen doorgegeven en niet opgeslagen.
+Elementbeschrijvingen, getypte tekst, de positie van de muisaanwijzer, overlay-afbeeldingen en CSS-waarden worden binnen de extensie rechtstreeks tussen je twee tabbladen doorgegeven en niet opgeslagen. Een CSV-export van een checklist ontstaat alleen als je op "CSV exporteren" klikt en wordt opgeslagen waar jij kiest.
 
 ### Machtigingen
 
 - **Toegang tot http- en https-sites**: nodig omdat de helften van een Split View elke website kunnen tonen die je kiest. De extensie doet alleen iets als een tabblad deel uitmaakt van een Split View-paar.
 - **scripting**: om het sync-script te starten in tabbladen die al open waren voordat de extensie werd geïnstalleerd of bijgewerkt.
-- **storage**: om je instellingen en de status van elk Split View-paar lokaal op te slaan.
+- **storage**: om je instellingen, checklists, recente paren en de status van elk Split View-paar lokaal op te slaan.
+- **Toegang tot alle sites (optioneel, `<all_urls>`)**: wordt pas gevraagd als je de overlay voor het eerst aanzet. Chrome staat een extensie alleen met deze toestemming toe een afbeelding van een tabblad te maken (`chrome.tabs.captureVisibleTab`). Je kunt hem altijd intrekken via `chrome://extensions`; de overlay gaat dan uit.
 
 ### Derden
 
